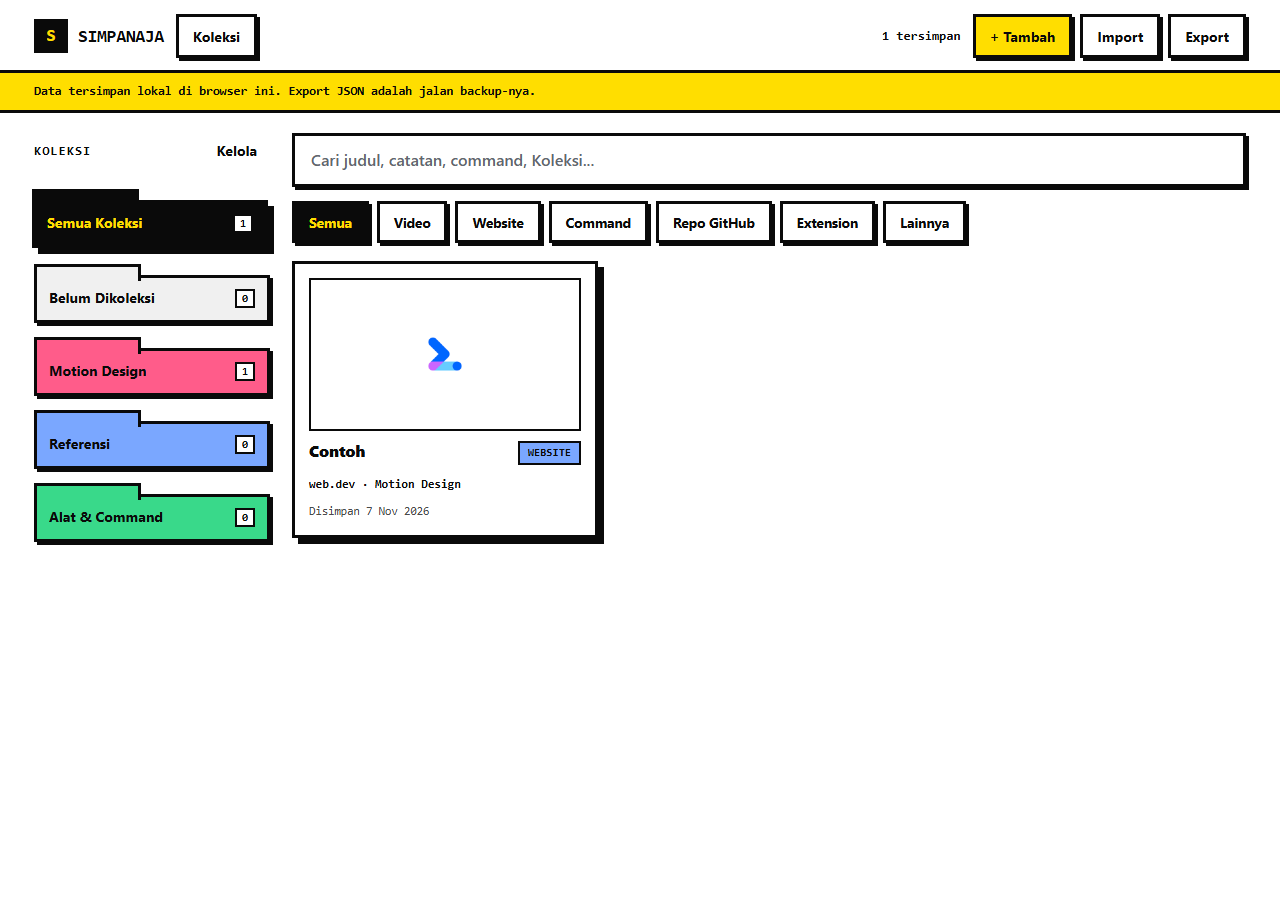
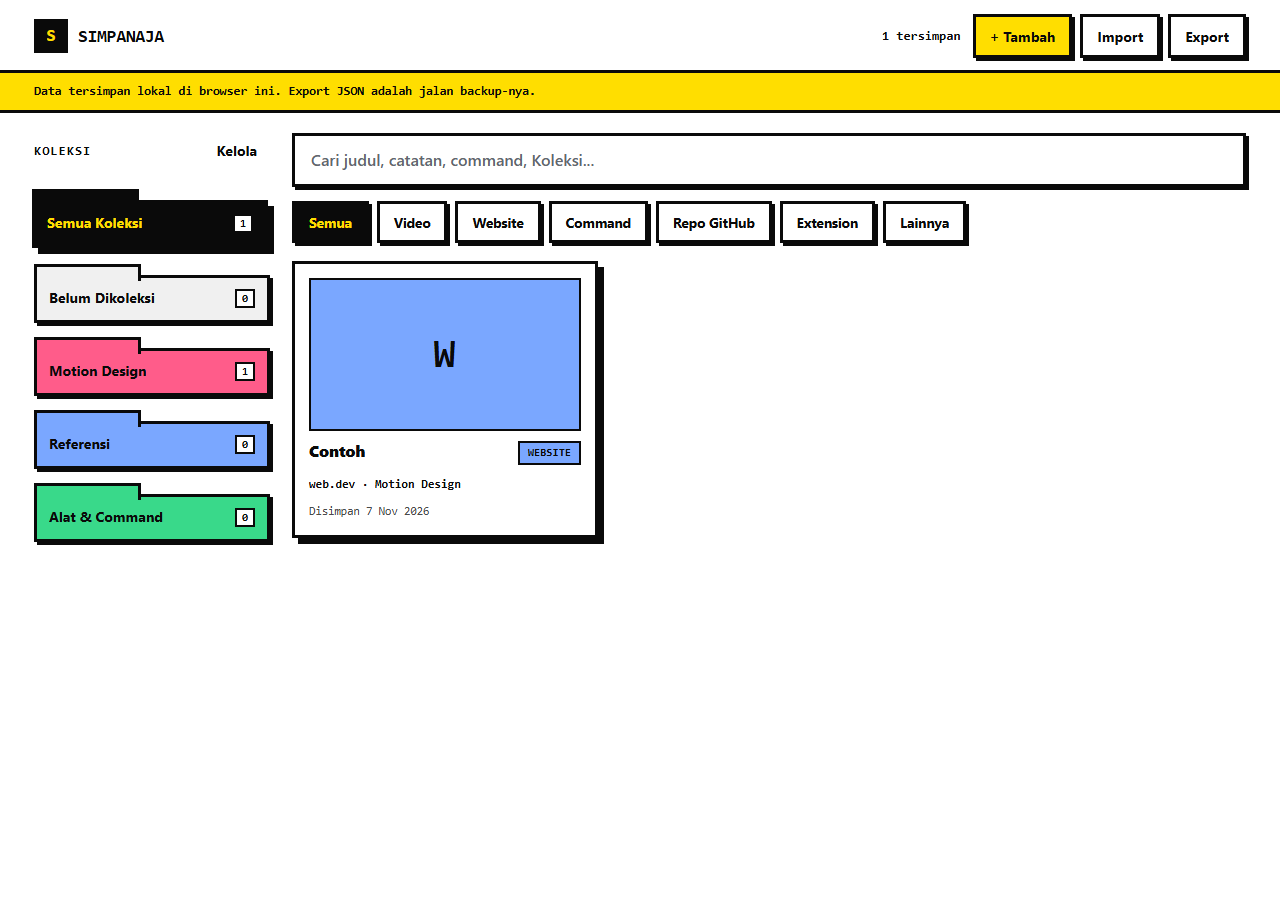
fix(sidebar): tombol buka/tutup hanya di HP, desktop sidebar tetap

Changed region(s): [[0.2188, 0.3111, 0.4688, 0.4978], [0.125, 0.0, 0.2188, 0.0933]]

diff --git a/app/src/main.js b/app/src/main.js
@@ -34,19 +34,16 @@ const state = { query: '', type: 'all', collection: 'all' };
 let bookmarks = [];
 let collections = [];
 
-/* Sidebar buka/tutup. Desktop: tampil/sembunyi permanen (default tampil).
-   HP: drawer dengan backdrop (default tertutup). */
+/* Sidebar buka/tutup hanya untuk HP: drawer dengan backdrop (default tertutup).
+   Di desktop sidebar selalu tampil biasa, tanpa tombol buka/tutup. */
 const sidebarQuery = window.matchMedia('(min-width: 1024px)');
-let desktopSidebar = true;
 let mobileSidebar = false;
 
 function applySidebar() {
-  const desktop = sidebarQuery.matches;
-  const open = desktop ? desktopSidebar : mobileSidebar;
-  document.body.classList.toggle('is-sidebar-collapsed', desktop && !desktopSidebar);
-  document.body.classList.toggle('is-sidebar-open', !desktop && mobileSidebar);
-  els.toggleSidebar.setAttribute('aria-expanded', String(open));
-  els.backdrop.hidden = desktop || !mobileSidebar;
+  if (sidebarQuery.matches) mobileSidebar = false;
+  document.body.classList.toggle('is-sidebar-open', mobileSidebar);
+  els.toggleSidebar.setAttribute('aria-expanded', String(mobileSidebar));
+  els.backdrop.hidden = !mobileSidebar;
 }
 
 function closeMobileSidebar() {
@@ -325,11 +322,7 @@ function wire() {
   };
 
   window.addEventListener('popstate', route);
-  els.toggleSidebar.onclick = () => {
-    if (sidebarQuery.matches) desktopSidebar = !desktopSidebar;
-    else mobileSidebar = !mobileSidebar;
-    applySidebar();
-  };
+  els.toggleSidebar.onclick = () => { mobileSidebar = !mobileSidebar; applySidebar(); };
   document.getElementById('btnCloseSidebar').onclick = closeMobileSidebar;
   els.backdrop.onclick = closeMobileSidebar;
   sidebarQuery.addEventListener('change', applySidebar);

diff --git a/app/styles.css b/app/styles.css
@@ -129,10 +129,12 @@ h1, h2, h3 { margin: 0; font-family: var(--mono); font-weight: 800; letter-spaci
   .layout { grid-template-columns: 236px 1fr; }
 }
 
-/* Sidebar buka/tutup: drawer di HP, bisa disembunyikan di desktop. */
+/* Sidebar buka/tutup hanya di HP: drawer + backdrop. Desktop: sidebar biasa. */
+.btn-sidebar-toggle { display: none; }
 .sidebar-backdrop { position: fixed; inset: 0; z-index: 55; background: rgba(10, 10, 10, .5); }
 .sidebar-close { display: none; }
 @media (max-width: 1023px) {
+  .btn-sidebar-toggle { display: inline-flex; }
   .sidebar {
     position: fixed; top: 0; bottom: 0; left: 0; z-index: 60;
     width: min(84vw, 320px); max-width: 320px; padding: 16px; overflow-y: auto;
@@ -142,11 +144,6 @@ h1, h2, h3 { margin: 0; font-family: var(--mono); font-weight: 800; letter-spaci
   }
   .is-sidebar-open .sidebar { transform: translateX(0); }
   .sidebar-close { display: inline-flex; }
-}
-@media (min-width: 1024px) {
-  .sidebar-backdrop { display: none; }
-  .is-sidebar-collapsed .layout { grid-template-columns: minmax(0, 1fr); }
-  .is-sidebar-collapsed .sidebar { display: none; }
 }
 
 .sidebar { min-width: 0; }

diff --git a/EXECUTION-LOG.md b/EXECUTION-LOG.md
@@ -232,3 +232,5 @@ Rencana: `PLAN.md`. Spec: `SPECS.md`. Bukan repo git (sesuai spec), jadi tak ada
 - Desktop (>=1024): sidebar tetap tampil default; tombol Koleksi menyembunyikan/munculkan kembali, grid melebar penuh saat tersembunyi.
 - Logika di `app/src/main.js` (matchMedia 1024, class `is-sidebar-open` / `is-sidebar-collapsed` di body, aria-expanded), markup di `app/index.html` (`#btnToggleSidebar`, `#sidebarBackdrop`, `#btnCloseSidebar`), CSS `app/styles.css`.
 - Tes: 51 pass, 0 fail. QA 14/14 dan 5/5. Bukti: qa/sidebar-mobile-closed.png, qa/sidebar-mobile-open.png, qa/sidebar-desktop-open.png, qa/sidebar-desktop-collapsed.png.
+
+- Revisi: tombol buka/tutup Koleksi hanya untuk HP. Desktop kembali tanpa tombol `Koleksi` - sidebar selalu tampil (default terbuka), grid tetap 2 kolom. Logika desktop-collapse dihapus; sisa drawer HP. Bukti: qa/sidebar-desktop-open.png (tanpa toggle), qa/sidebar-mobile-closed.png, qa/sidebar-mobile-open.png. qa/sidebar-desktop-collapsed.png dihapus.

diff --git a/SPECS.md b/SPECS.md
@@ -146,7 +146,7 @@ Susunan halaman (atas ke bawah):
 
 3. \*\*Filter tipe:\*\* chip `Semua | Video | Website | Command | Repo GitHub | Extension | Lainnya`.
 
-4. \*\*Filter Koleksi:\*\* daftar Koleksi berbentuk \*\*folder\*\* berwarna, dibuka/ditutup lewat tombol `Koleksi`. Di HP tampil sebagai \*\*drawer\*\* (sidebar geser + backdrop, default tertutup); di desktop tampil sebagai sidebar yang bisa disembunyikan (default tampil) sehingga grid melebar penuh. Termasuk pilihan `Semua Koleksi` dan `Belum Dikoleksi`.
+4. \*\*Filter Koleksi:\*\* daftar Koleksi berbentuk \*\*folder\*\* berwarna. Di HP tampil sebagai \*\*drawer\*\* yang dibuka/ditutup lewat tombol `Koleksi` (sidebar geser + backdrop, default tertutup); di desktop tampil sebagai sidebar tetap tanpa tombol buka/tutup. Termasuk pilihan `Semua Koleksi` dan `Belum Dikoleksi`.
 
 5. \*\*Grid kartu\*\* bookmark (responsif: 1 kolom di HP, beberapa kolom di desktop).
 

diff --git a/app/README.md b/app/README.md
@@ -34,8 +34,8 @@ membuat HP memakai JS lama dari cache.
 - **Tipe:** Video, Website, Command, Repo GitHub, Extension, Lainnya.
 - **Search:** mencari di judul, catatan, URL, isi command, dan nama Koleksi.
   Semua kata harus cocok (AND).
-- **Filter:** chip tipe + sidebar Koleksi yang bisa dibuka/tutup lewat tombol
-  `Koleksi` (drawer di HP, sidebar sembunyi di desktop), termasuk `Belum Dikoleksi`.
+- **Filter:** chip tipe + sidebar Koleksi; di HP sidebar jadi drawer yang dibuka
+  lewat tombol `Koleksi` (desktop selalu tampil), termasuk `Belum Dikoleksi`.
 - **Koleksi:** buat/rename/**atur warna**/hapus lewat tombol `Kelola`. Di daftar
   filter, tiap Koleksi tampil sebagai **folder berwarna** (warna dipilih dari palet
   saat membuat atau mengubah Koleksi). Menghapus Koleksi **tidak** menghapus
